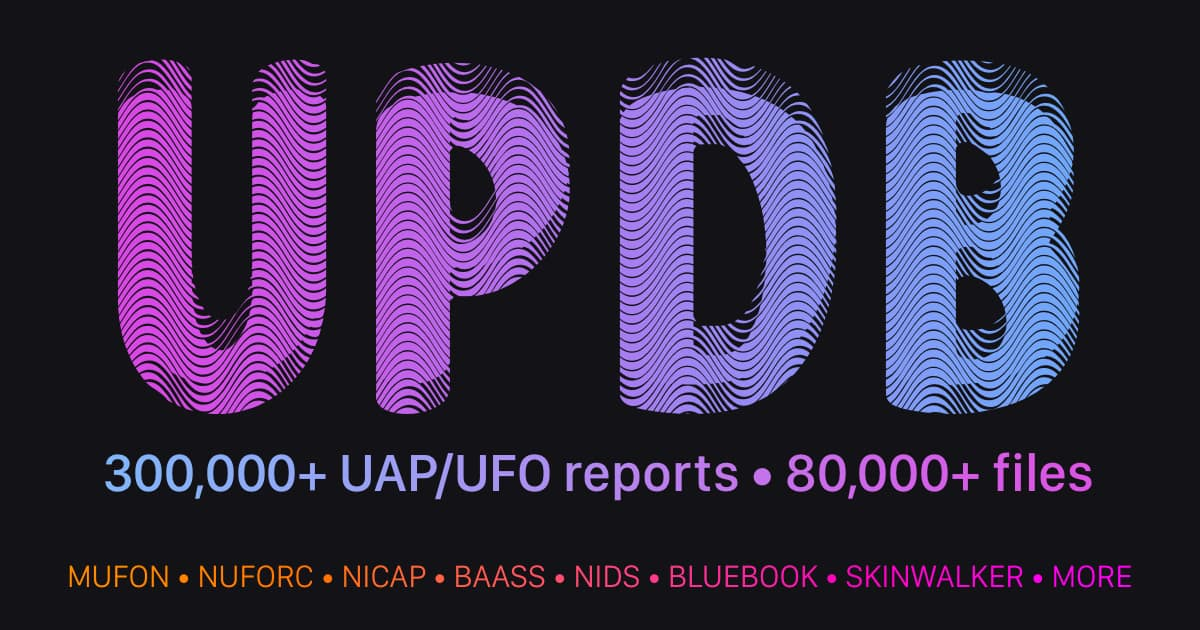
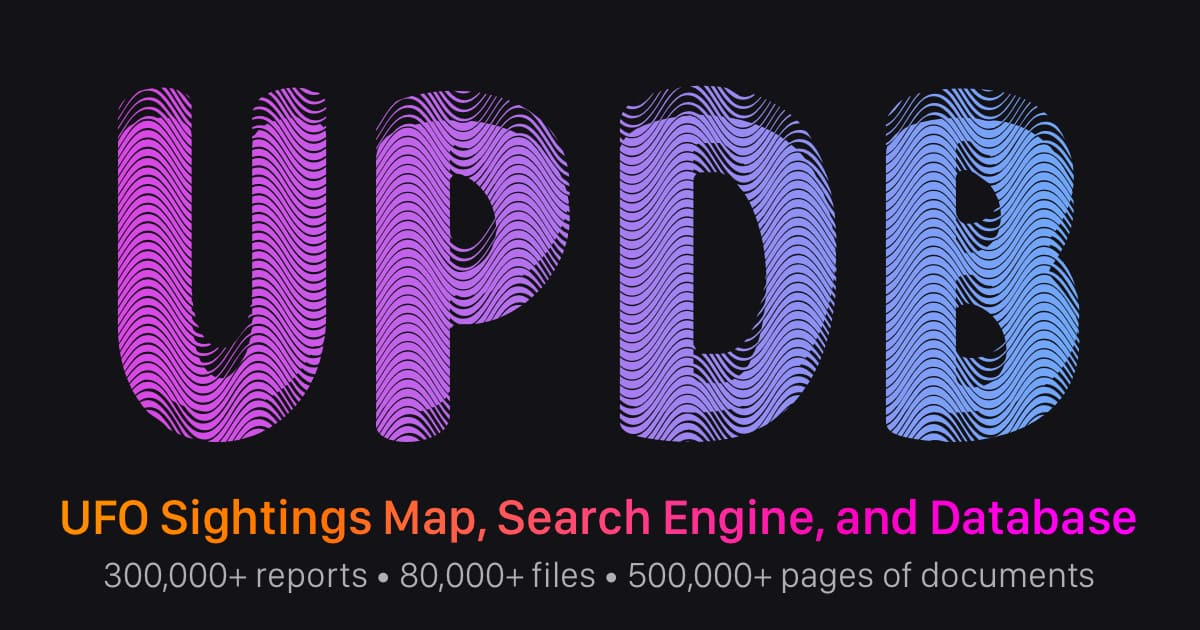
Add custom meta image for /map & use full country name in search results

Changed region(s): [[0.0308, 0.0905, 0.9558, 0.9349], [0.0925, 0.0905, 0.2775, 0.2111], [0.1233, 0.4222, 0.1542, 0.4524]]

diff --git a/src/store/reports.ts b/src/store/reports.ts
@@ -155,7 +155,7 @@ export const useReportsStore = defineStore("reports", {
     },
 
     buildSummary() {
-      let filterString = `${this.resultsTotal?.toLocaleString()} UFO report`;
+      let filterString = `${this.resultsTotal?.toLocaleString()} UFO Report`;
 
       if (this.resultsTotal > 1) filterString += 's';
 
@@ -172,13 +172,22 @@ export const useReportsStore = defineStore("reports", {
           filterStrings.push("in ");
 
           let locs = ['city', 'district', 'country', 'water', 'other'].map(l => {
+            if (l === 'country') {
+              let country = countries[this.location[l]];
+              if (country) {
+                let val = country.name;
+                if (country.name !== country.native) val += ` (${country.native})`;
+                return val;
+              }
+              else {
+                return this.location[l];
+              }
+            }
+
             return this.location[l];
           }).filter(l => l);
 
           if (locs.length === 1) {
-            if (this.location.country) {
-              filterStrings.push("country: ");
-            }
             if (this.location.city) {
               filterStrings.push("city: ");
             }

diff --git a/src/pages/MapPage.vue b/src/pages/MapPage.vue
@@ -15,11 +15,11 @@ let { setPageMeta } = usePageMeta();
 let route = useRoute();
 
 let title = 'UFO Sightings Map | UPDB';
-let description = 'This map shows reports of UFO sightings around the world submitted to MUFON, NUFORC, and other organizations.';
+let description = 'Map of UFO sightings around the world submitted to MUFON, NUFORC, and other organizations.';
 
-setPageMeta(title, description);
+setPageMeta(title, description, "https://updb.app/updb_wide_map.jpg");
 
 watch(route, async () => {
-  setPageMeta(title, description);
+  setPageMeta(title, description, "https://updb.app/updb_wide_map.jpg");
 }, { immediate: true });
 </script>

diff --git a/components.d.ts b/components.d.ts
@@ -26,8 +26,6 @@ declare module 'vue' {
     ReportsTable: typeof import('./src/components/sections/reports-table.vue')['default']
     ReportTags: typeof import('./src/components/collections/report-tags.vue')['default']
     SamfordQuote: typeof import('./src/components/widgets/samford-quote.vue')['default']
-    SearchNav: typeof import('./src/components/nav/search-nav.vue')['default']
-    SectionNav: typeof import('./src/components/nav/section-nav.vue')['default']
     SourceInline: typeof import('./src/components/inline/source-inline.vue')['default']
   }
 }

diff --git a/src/composables/usePageMeta.ts b/src/composables/usePageMeta.ts
@@ -6,10 +6,13 @@ export function usePageMeta() {
   let route = useRoute();
   let meta = inject("meta") as HeadTags;
 
-  function setPageMeta(title: string, description = title) {
+  function setPageMeta(title: string, description = title, imageUrl = "https://updb.app/updb_wide.jpg") {
     if (!import.meta.env.SSR) {
       document.title = title;
     }
+
+    meta.meta["og:image"] = { content: imageUrl };
+    meta.meta["twitter:image"] = { content: imageUrl };
 
     meta.title = title;
     meta.meta["og:title"] = { content: title };

diff --git a/src/pages/ReportsByCountry.vue b/src/pages/ReportsByCountry.vue
@@ -21,14 +21,6 @@
         <el-card shadow="never" class="ms-3">
           <continent-summary name="Antarctica" abbreviation="AN" />
         </el-card>
-
-        <!-- <el-card
-          shadow="never"
-          class="ms-3">
-          <continent-summary
-            name="Unknown"
-            abbreviation="unknown" />
-        </el-card> -->
       </el-col>
 
       <el-col :md="12">
